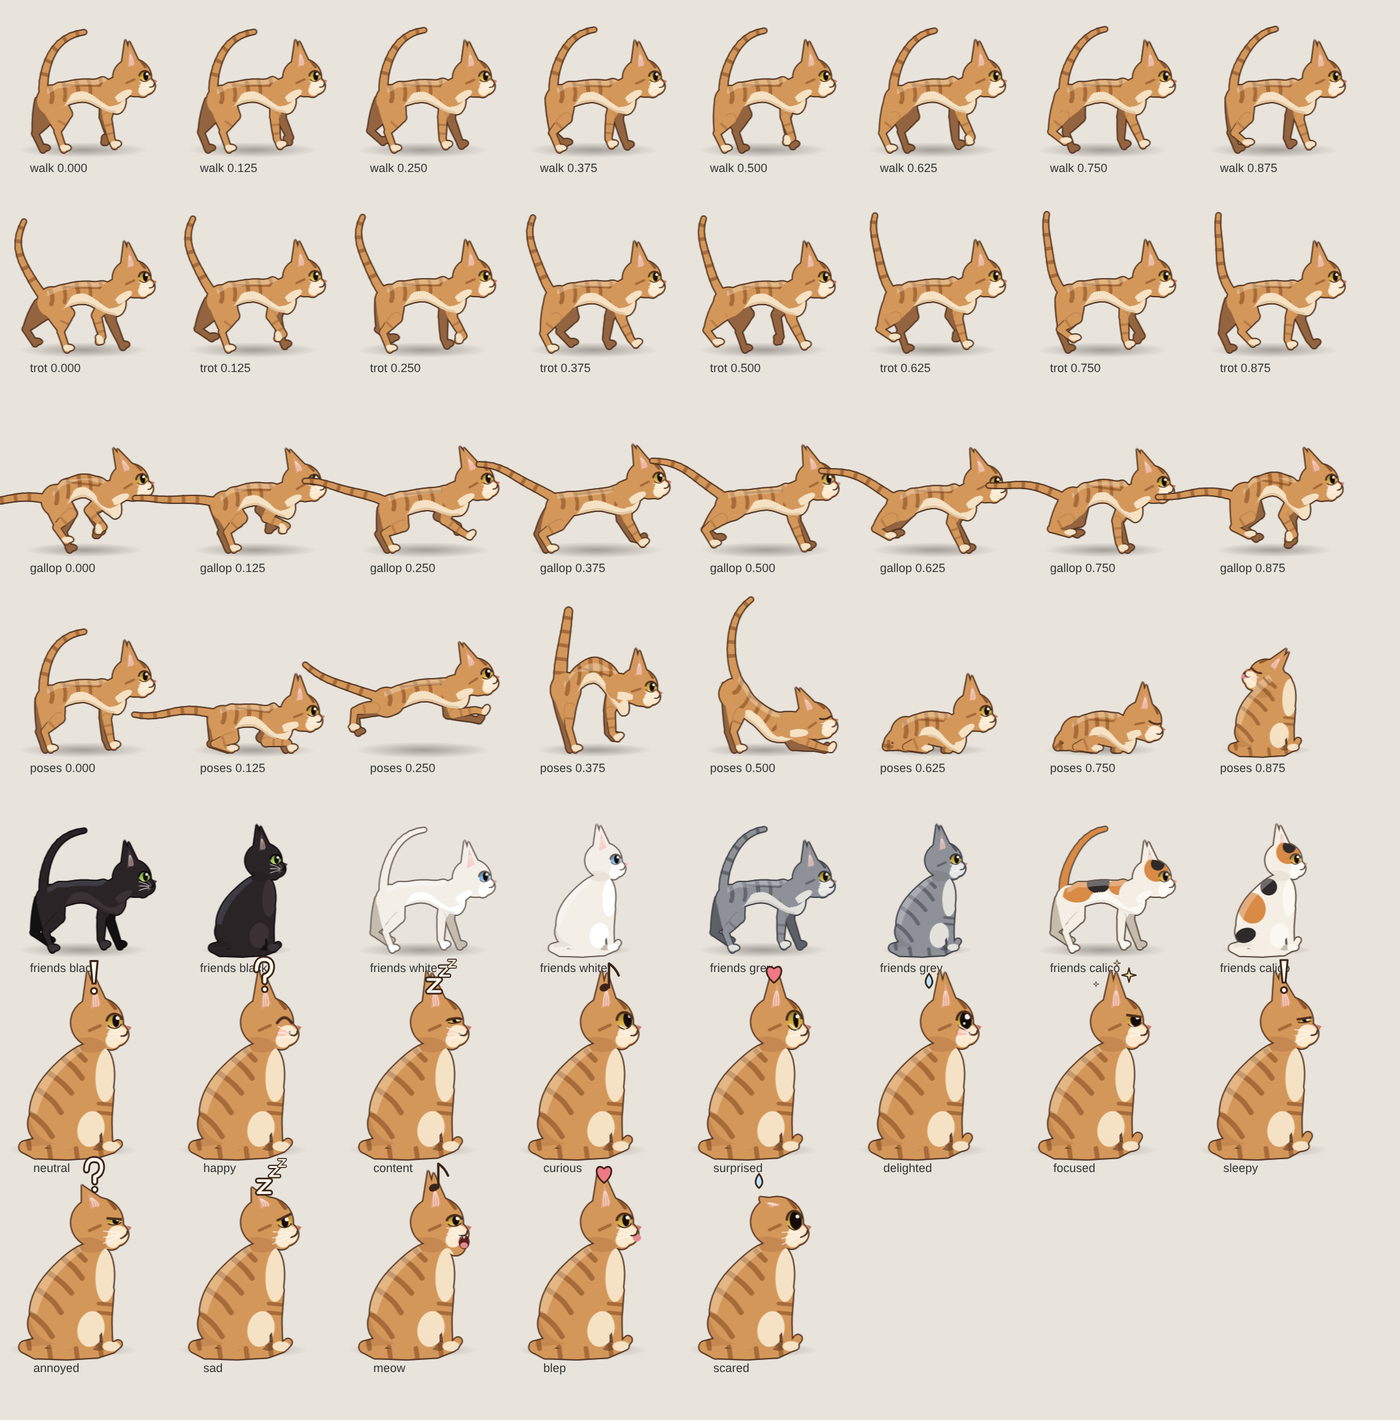
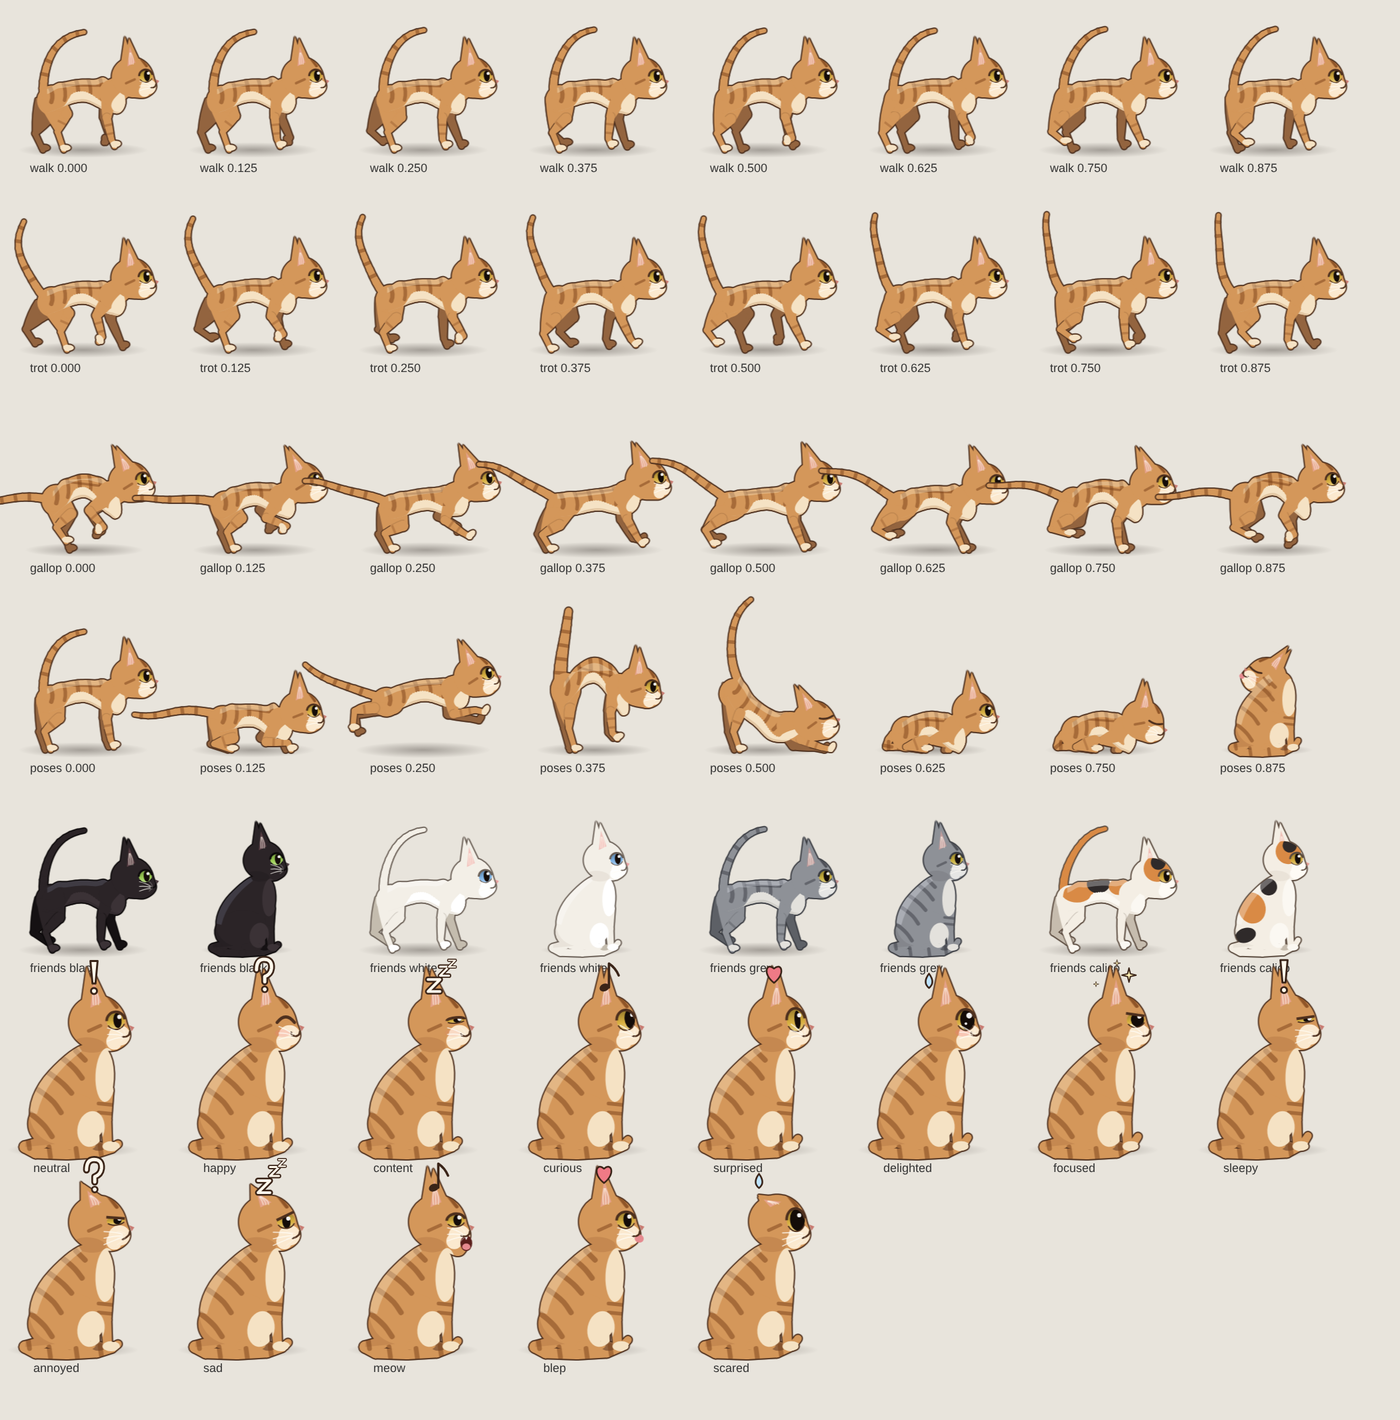
Cat: smooth single-contour head, bigger head and eyes, front leg one colour shoulder-to-paw, one cream bib
- headPath(): skull/cheeks/muzzle/chin merged into one smooth outline (ray-cast
  radial max, closing, blur) - no more bumps where the pieces met.
- Near upper arm is painted over the body shading (clipped below the stripes),
  so the cream belly no longer cuts across the leg.
- Throat and chest cream merged into a single bib from chin to chest.
- Head 8% bigger, eyes 12% bigger.

Claude-Session: https://claude.ai/code/session_01VPbtjPGy5UqvDX4Qc8aXKN

diff --git a/src/cat3.js b/src/cat3.js
@@ -13,7 +13,7 @@ const COATS = {
     patches: [[0.05, 6, 16, 12, '#d98a45'], [0.42, 9, 11, 9, '#2f2a2a'], [0.78, 7, 10, 8, '#d98a45']], sitPatches: [[-22, -40, 13, 15, '#d98a45'], [-6, -60, 8, 8, '#2f2a2a'], [-28, -14, 10, 7, '#2f2a2a']], headPatches: [[-6.5, -7, 4, 7.5, '#d98a45'], [5, -10.5, 3, 4.2, '#2f2a2a']], tail: '#d98a45' },
   tuxedo: { base: '#26222a', shade: '#1a171d', far: '#121014', cream: '#f2efe8', creamS: '#d9d4ca', light: 'rgba(170,180,220,0.16)', stripe: null, line: '#0b090c', inner: 'rgba(0,0,0,0.6)', belly: 'rgba(250,248,242,0.95)', eye: '#e2c24c', nose: '#e39a9a', ear: '#5e4650' },
 };
-const HSR = 1.56, HSS = 1.5; // head scale (rig / sitting): a little big, so expressions read at film size
+const HSR = 1.68, HSS = 1.62; // head scale (rig / sitting): a little big, so expressions read at film size
 let CB = null, CB2 = null, CB3 = null, CB4 = null, CB5 = null;
 const CBW = 720, CBH = 560, COX = 360, COY = 470;
 function cbufs() { if (!CB) { CB = mkCanvas(CBW, CBH); CB2 = mkCanvas(CBW, CBH); CB3 = mkCanvas(CBW, CBH); CB4 = mkCanvas(CBW, CBH); CB5 = mkCanvas(CBW, CBH); } }
@@ -165,13 +165,22 @@ function earGeo(H, p, s) {
   return { b1, b2, tp, pts: [b1, b2, tp].map(v => { const q = H.pr(...v); return [q[0] + off[0], q[1] + off[1]]; }), dep };
 }
 /* head outline pieces as one path (skull, cheeks + fur tufts, muzzle, chin) */
+/* head outline: the skull, cheeks, muzzle and chin are merged into ONE smooth contour. A ray is cast from the head
+   centre every 5.6°, the outermost piece wins, then a radial closing + blur removes the notches between pieces. */
 function headPath(H, p) {
-  const sk = H.pr(0, -2, 0), w = Math.hypot(12 * H.cs, 11.5 * H.sn);
-  c.beginPath(); c.ellipse(sk[0], sk[1], w, 11, 0, 0, TAU);
-  [-1, 1].forEach(s => { const q = H.pr(s * 7.6, 3.2, 2.6); c.moveTo(q[0] + 6.4, q[1]); c.arc(q[0], q[1], 6.4, 0, TAU); });
-  const mz = H.pr(0, 3.3, 9), ch = H.pr(0, 6.2, 6.6);
-  c.moveTo(mz[0] + 5, mz[1]); c.arc(mz[0], mz[1], 5, 0, TAU); c.moveTo(ch[0] + 3.8, ch[1]); c.arc(ch[0], ch[1], 3.8, 0, TAU);
-  if ((p.mouth || 0) > 0.05) { const j = H.pr(0, 5.8 + 3.6 * p.mouth, 8.4); c.moveTo(j[0] + 4.2, j[1]); c.arc(j[0], j[1], 4.2, 0, TAU); }
+  const sk = H.pr(0, -2, 0), w = Math.hypot(12 * H.cs, 11.5 * H.sn), C = [sk[0], sk[1] + 1.5], circ = [];
+  [-1, 1].forEach(s => { const q = H.pr(s * 7.6, 3.2, 2.6); circ.push([q[0], q[1], 6.4]); });
+  const mz = H.pr(0, 3.3, 9), ch = H.pr(0, 6.2, 6.6); circ.push([mz[0], mz[1], 5], [ch[0], ch[1], 3.8]);
+  if ((p.mouth || 0) > 0.05) { const j = H.pr(0, 5.8 + 3.6 * p.mouth, 8.4); circ.push([j[0], j[1], 4.2]); }
+  const N = 64, r = [], dx0 = C[0] - sk[0], dy0 = C[1] - sk[1];
+  for (let i = 0; i < N; i++) { const a = i / N * TAU, ux = Math.cos(a), uy = Math.sin(a);
+    const A = (ux / w) ** 2 + (uy / 11) ** 2, Bq = 2 * (dx0 * ux / (w * w) + dy0 * uy / 121), Cq = (dx0 / w) ** 2 + (dy0 / 11) ** 2 - 1;
+    let best = (-Bq + Math.sqrt(Math.max(0, Bq * Bq - 4 * A * Cq))) / (2 * A);
+    for (const [cx, cy, R] of circ) { const ex = C[0] - cx, ey = C[1] - cy, bb = ex * ux + ey * uy, disc = bb * bb - (ex * ex + ey * ey - R * R); if (disc >= 0) best = Math.max(best, -bb + Math.sqrt(disc)); }
+    r.push(best); }
+  const win = (arr, k, f) => arr.map((_, i) => { let v = arr[i]; for (let d = -k; d <= k; d++) v = f(v, arr[(i + d + N) % N]); return v; });
+  const cl = win(win(r, 3, Math.max), 3, Math.min), rs = cl.map((_, i) => (cl[(i + N - 2) % N] + 2 * cl[(i + N - 1) % N] + 3 * cl[i] + 2 * cl[(i + 1) % N] + cl[(i + 2) % N]) / 9);
+  smoothClosed(rs.map((v, i) => [C[0] + Math.cos(i / N * TAU) * v, C[1] + Math.sin(i / N * TAU) * v]));
 }
 function headSil(p, P, hd, sc) {
   const H = headView(p);
@@ -198,8 +207,11 @@ function drawRig(p, P, k, fx) {
   const hk0 = hind3Geom(B, p.hn), ha = Math.atan2(B.t[1], B.t[0]), sw = [(hk0.kn[0] - hk0.root[0]) * 0.12, (hk0.kn[1] - hk0.root[1]) * 0.08];
   const hc = [B.H[0] - B.t[0] * 4 - B.n[0] * 1.5 + sw[0], B.H[1] - B.t[1] * 4 - B.n[1] * 1.5 + sw[1]];
   const haunch = () => { c.beginPath(); c.ellipse(hc[0], hc[1], 14, 14.2 * (p.g || 1), ha, 0, TAU); };
-  haunch(); c.fill(); hind3(B, p.hn, 1); fore3(B, p.fn, 1); hindWeb(B, hind3Geom(B, p.hn), hc, p);
+  haunch(); c.fill(); hind3(B, p.hn, 1); hindWeb(B, hind3Geom(B, p.hn), hc, p);
   c.save(); smoothClosed(B.pts); c.clip(); shadeBody3(B, p, P); c.restore();
+  if (!(p.tuck > 0.5)) { c.save(); c.beginPath(); for (let u = -0.3; u <= 1.6; u += 0.1) { const q = B.at(u, -6.5); u < -0.29 ? c.moveTo(q[0], q[1]) : c.lineTo(q[0], q[1]); }
+    const e1 = B.at(1.6, -90), e0 = B.at(-0.3, -90); c.lineTo(e1[0], e1[1]); c.lineTo(e0[0], e0[1]); c.closePath(); c.clip(); c.fillStyle = P.base; fore3(B, p.fn, 1); c.restore(); }
+  else { c.fillStyle = P.base; fore3(B, p.fn, 1); }
   // near legs on their own layer
   const g3 = CB3.getContext('2d'); g3.setTransform(1, 0, 0, 1, 0, 0); g3.globalCompositeOperation = 'source-over'; g3.clearRect(0, 0, CBW, CBH); g3.setTransform(k * fx, 0, 0, k, COX, COY);
   c = g3; c.fillStyle = P.base;
@@ -219,12 +231,13 @@ function drawRig(p, P, k, fx) {
   // neck + head
   const nb = B.at(1.0, 2), hd = p.head, ne = [lerp(nb[0], hd[0], 0.8), lerp(nb[1], hd[1], 0.8)];
   c.fillStyle = P.base; taper(nb, ne, 25, 21);
+  // one cream bib from the chin down the front of the chest (clipped to neck + body), then the head on top
+  { const dx = ne[0] - nb[0], dy = ne[1] - nb[1], L = Math.hypot(dx, dy) || 1, nx = -dy / L, ny = dx / L;
+    c.save(); c.beginPath(); c.moveTo(nb[0] + nx * 12.5, nb[1] + ny * 12.5); c.lineTo(ne[0] + nx * 10.5, ne[1] + ny * 10.5); c.lineTo(ne[0] - nx * 10.5, ne[1] - ny * 10.5); c.lineTo(nb[0] - nx * 12.5, nb[1] - ny * 12.5); c.closePath();
+    smoothClosed(B.pts); c.clip('nonzero');
+    const bib = [[ne[0] + nx * 4, ne[1] + ny * 4], [ne[0] + nx * 12, ne[1] + ny * 12], B.at(1.25, 2), B.at(1.25, -6), B.at(1.16, -14), B.at(1.0, -16), B.at(0.96, -8), [lerp(nb[0], ne[0], 0.5) + nx * 3, lerp(nb[1], ne[1], 0.5) + ny * 3]];
+    c.fillStyle = P.cream; smoothClosed(bib); c.fill(); c.restore(); }
   headSil(p, P, hd, HSR);
-  // cream throat, clipped to the neck
-  c.save(); const dx = ne[0] - nb[0], dy = ne[1] - nb[1], L = Math.hypot(dx, dy) || 1, nx = -dy / L, ny = dx / L;
-  c.beginPath(); c.moveTo(nb[0] + nx * 12.5, nb[1] + ny * 12.5); c.lineTo(ne[0] + nx * 10.5, ne[1] + ny * 10.5); c.lineTo(ne[0] - nx * 10.5, ne[1] - ny * 10.5); c.lineTo(nb[0] - nx * 12.5, nb[1] - ny * 12.5); c.closePath(); c.clip();
-  c.fillStyle = P.cream; const tq = [lerp(nb[0], ne[0], 0.4) + nx * 8, lerp(nb[1], ne[1], 0.4) + ny * 8]; c.beginPath(); c.ellipse(tq[0], tq[1], 10, 4, Math.atan2(dy, dx), 0, TAU); c.fill();
-  c.restore();
   return { B, tp, hl, fl };
 }
 /* body shading, already clipped to the body: tabby stripes, cream underside, top light */
@@ -244,8 +257,6 @@ function shadeBody3(B, p, P) {
   c.fillStyle = P.creamS; c.globalAlpha = 0.7; c.beginPath(); first = true;
   for (let u = -0.3; u <= 1.32; u += 0.04) { const q = B.at(u, -B.bot(clamp(u, -0.14, 1.1)) + 2.2 * sm((u - 0.1) / 0.2)); first ? c.moveTo(q[0], q[1]) : c.lineTo(q[0], q[1]); first = false; }
   c.lineTo(e1[0], e1[1]); c.lineTo(e0[0], e0[1]); c.closePath(); c.fill(); c.globalAlpha = 1;
-  // chest ruff
-  c.fillStyle = P.cream; const ch = B.at(1.15, -8); c.beginPath(); c.ellipse(ch[0], ch[1], 6.5, 9, 0.2, 0, TAU); c.fill();
   // top light
   c.fillStyle = P.light; c.beginPath(); c.moveTo(B.TP[0][0] + B.n[0] * 10, B.TP[0][1] + B.n[1] * 10); B.TP.forEach(q => c.lineTo(q[0] - B.n[0] * 5, q[1] - B.n[1] * 5)); const lq = B.TP[B.TP.length - 1]; c.lineTo(lq[0] + B.n[0] * 10, lq[1] + B.n[1] * 10); c.closePath(); c.fill();
 }
@@ -343,7 +354,7 @@ function eye3(x, y, rx, ry, inner, q, P, sil, H) {
 }
 function face3(P, p, sil) {
   const q = { ...FACE0 }; for (const k in p) if (p[k] != null) q[k] = p[k];
-  const H = headView(q), m = q.mouth || 0, ES = 1.12, front = Math.cos((1 - H.tn) * 0.45 * Math.PI);
+  const H = headView(q), m = q.mouth || 0, ES = 1.25, front = Math.cos((1 - H.tn) * 0.45 * Math.PI);
   // inner ears (pink, with a cream tuft) on the ears that face us
   [-1, 1].forEach(s => { const e = earGeo(H, q, s), vis = clamp(H.d(s * 0.35, 1) * 1.4); if (e.dep < -2.5 || vis < 0.08) return;
     const mid = [(e.b1[0] + e.b2[0]) / 2, (e.b1[1] + e.b2[1]) / 2, (e.b1[2] + e.b2[2]) / 2], L3 = (u, a, b) => a.map((v, i) => v + (b[i] - v) * u);

diff --git a/CLAUDE.md b/CLAUDE.md
@@ -62,8 +62,8 @@ Inside `draw(lt)` use the layer helpers from `core.js`:
 - **Poses**: `STAND3, CROUCH3, LEAP3, LAND3, STRETCH3, LOAF3, SLEEP3, SCARED3` (arched “Halloween cat”), `REAR3`, `LOAFT3`/`SLEEPT3` (loaf with the front paws tucked under the chest — `tuck: 1` draws the near forearm behind the body), `SITP`; `groom3(lt, t0, t1)` (actions3.js) is a sitting overlay that turns the head back over the shoulder (`turn` → 2, `hdx/hdy`) and licks the flank; generators `walkPose3(cycles, {trot, low, ear, eye, hr, tail})` (secondary motion — withers/pelvis height, shoulder-blade bump, head nod — is derived from which legs bear weight) and `gallopPose3(cycles)` (transverse lope; spine length changes ≤ ~11%, never stretch the body). Blend any two rig poses with `lp(a, b, u)`. Sit↔rig can't be blended — use `cross(qa, qb, u)` (a short dissolve).
 - **Compact torso**: rig poses are authored long and drawn compressed along x by `SPX` (`squashX` in `drawCat3`); `walkCyc3`/`gallopCyc3` and `noseW`/`pawW` already account for it. Hind paws stand under the rump (`hn`/`hf` ≈ −38/−44), not under the middle of the body. Hind leg: short broad thigh (17.5) painted with the body, shin 19, long near-vertical metatarsal (hock ≈ 17.5 up) — keep the knee tucked up under the haunch, a low knee + low hock reads as a bird leg. `hindWeb` fills the notch between rump and shin so the back of the hind leg is one convex line from the rump to the heel; the inner contour is also cut away around the elbow and knee so no line shows where a leg leaves the body. The head sits low on the shoulders (`headPos3` pulls it 20% toward the withers).
 - **No foot sliding**: convert distance to gait cycles with `walkCyc3(dist, scale, trot)` / `gallopCyc3(dist, scale)`. A gallop needs ≈200 px/s to read as running.
-- **Rendering** (`drawRig`): far legs (darker `far` colour) → tail → body, with the **haunch and both near upper limbs painted into the body pass** so stripes and the cream underside run across them → near *lower* legs on their own layer (`CB3`) with a thin inner contour (`CB4`), kept only where it crosses a far leg (`CB5` holds the far legs) → neck and head. Then one outer outline by dilating the silhouette, optional rim light, face on top. Don't draw the thigh as a separate shape (it reads as a drumstick) and don't give limbs their own outlines. The cream belly stops before the haunch.
-- **Head**: a small 3D model (`headView`, `earGeo`, `headPath`: skull, cheeks + fur tufts, muzzle, chin, ears) projected at yaw `turn` (0 profile, 1 front, 2 looking back over the shoulder); no cheek tufts — they read as a growth; `headSil` fills it into the silhouette and `face3`/`eye3` draw the features, so every expression works in profile, three-quarter and front view. `turnAt(lt, [[t0, t1, amount]])` ramps a look at the camera.
+- **Rendering** (`drawRig`): far legs (darker `far` colour) → tail → body, with the **haunch and both near upper limbs painted into the body pass** so stripes and the cream underside run across them → the near upper arm painted *after* the body shading (clipped below the stripes) so the leg is one colour from shoulder to paw, one cream bib from chin to chest → near *lower* legs on their own layer (`CB3`) with a thin inner contour (`CB4`), kept only where it crosses a far leg (`CB5` holds the far legs) → neck and head. Then one outer outline by dilating the silhouette, optional rim light, face on top. Don't draw the thigh as a separate shape (it reads as a drumstick) and don't give limbs their own outlines. The cream belly stops before the haunch.
+- **Head**: a small 3D model (`headView`, `earGeo`, `headPath`: skull, cheeks + fur tufts, muzzle, chin, ears) projected at yaw `turn` (0 profile, 1 front, 2 looking back over the shoulder); no cheek tufts — they read as a growth; `headPath` merges skull, cheeks, muzzle and chin into one smooth contour (radial max → closing → blur), never draw the head as a union of separate circles (bumpy outline); `headSil` fills it into the silhouette and `face3`/`eye3` draw the features, so every expression works in profile, three-quarter and front view. `turnAt(lt, [[t0, t1, amount]])` ramps a look at the camera.
 - **Expressions**: every face parameter is numeric so they blend — `turn, eye, happy, lid, pupil, look:[x,y], ear, earDown, mouth, smile, frown, tongue, blush, whisk, sparkle, shine`. Presets in `EXPR3` (`happy, content, curious, surprised, delighted, focused, sleepy, annoyed, sad, meow, blep, scared`); use `{...pose, ...ex('happy')}`, `exMix(a, b, u)` or a timeline `exSeq(lt, [[t0,'curious'], [t1,'happy']])`. Blinking is automatic (`noBlink: true` to disable).
 - **Other cats**: `drawCat3({ ..., coat: 'black' | 'white' | 'grey' | 'calico' | 'tuxedo' })` uses `COATS[coat]` (patches via `patches`/`sitPatches`/`headPatches`). Friends are drawn inside the landmark's `actCat` case (in `q.before`/`q.after`) so they share its timing and are mirrored into reflections with it. `dreamBubble()` shows all five at the end.
 - **Comic marks**: `emote3(kind, …)` draws `! ? z note heart drop spark` above the head; set `q.emote` via `emo(q, lt, [[t0, t1, kind]])` or `emoAt(lt, list)`. They are skipped in mirrored (reflection) draws.

diff --git a/docs/CHANGELOG.md b/docs/CHANGELOG.md
@@ -1,6 +1,7 @@
 # 版本紀錄 Changelog
 
 ## v4.1
+- **更可愛的頭與一致的配色**：頭部外框改成一條平滑的輪廓（不再是幾個圓拼起來而凹凸不平），頭和眼睛都放大；前腳從肩膀到腳掌同一個顏色，下巴到胸口是一整片奶油色圍兜。
 - **後腳輪廓**：臀部到腳跟改成一條連續外凸的線，不再在大腿後方凹進去；前腳、後腳和身體相接處的內線完全拿掉。
 - **新動作**：「折手手」的香箱坐（前腳收在胸口下，七美和三花一起趴、結尾睡覺）；用舌頭梳理身體（頭轉向後方舔側腹：阿里山、日月潭、勝興車站）。
 - **後腳再修正**：大腿短而寬、膝蓋收在臀部下，小腿變短、跗關節抬高到約三分之一腿高，腳掌以下近乎垂直，不再像鳥腿。頭貼近肩膀，脖子不再細長。臉頰的毛簇移除，口鼻變小，側面不再有凸出的一塊。
